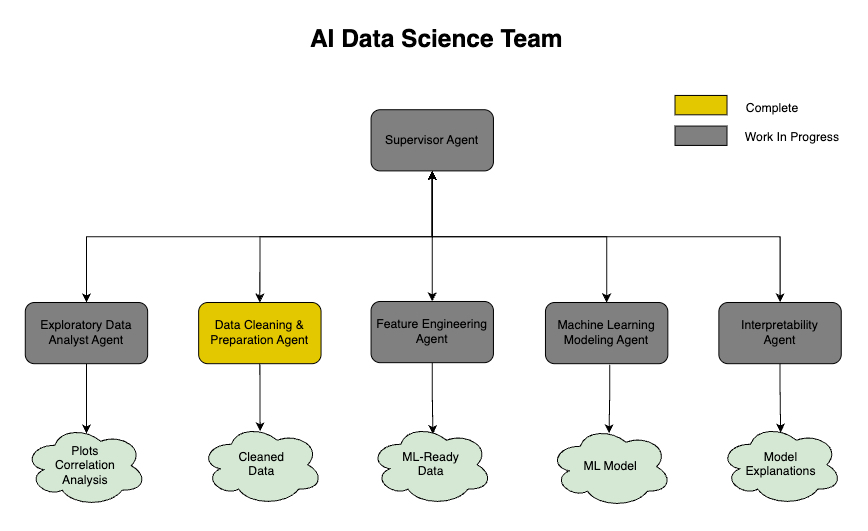
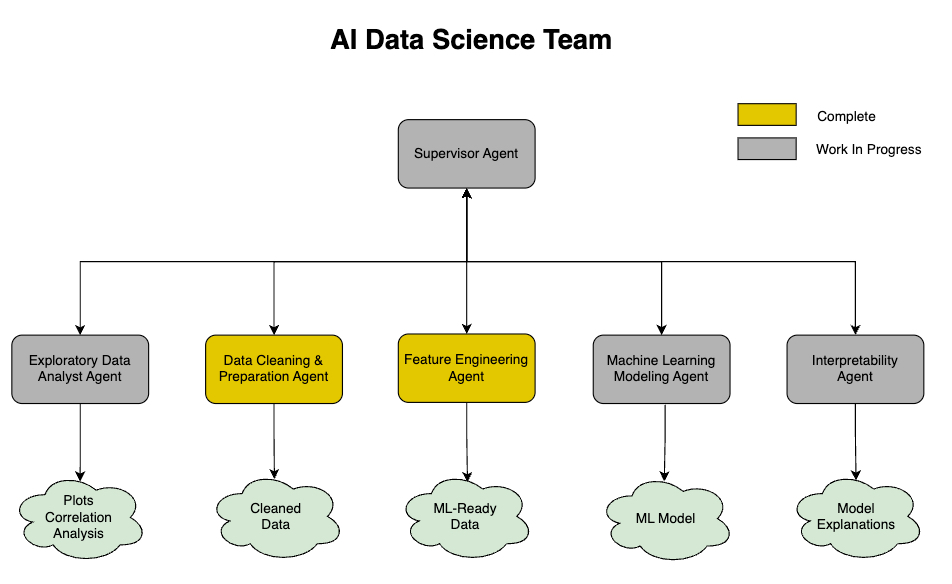
update readme

diff --git a/README.md b/README.md
@@ -26,14 +26,14 @@ This project is a work in progress. New agents will be released soon.
 ### Agents Available Now
 
 1. **Data Cleaning Agent:** Performs Data Preparation steps including handling missing values, outliers, and data type conversions.
+2. **Feature Engineering Agent:** Converts the prepared data into ML-ready data. Adds features to increase predictive accuracy of ML models.
 
 ### Agents Coming Soon
 
 1. **Supervisor:** Forms task list. Moderates sub-agents. Returns completed assignment. 
-2. **Exploratory Data Analyst:** Analyzes data structure, creates exploratory visualizations, and performs correlation analysis to identify relationships. 
-3. **Feature Engineering Agent:** Converts the prepared data into ML-ready data. Adds features to increase predictive accuracy of ML models. 
-4. **Machine Learning Agent:** Builds and logs the machine learning models.
-5. **Interpretability Agent:** Performs Interpretable ML to explain why the model returned predictions including which features were the most important to the model.
+2. **Exploratory Data Analyst:** Analyzes data structure, creates exploratory visualizations, and performs correlation analysis to identify relationships.
+3. **Machine Learning Agent:** Builds and logs the machine learning models.
+4. **Interpretability Agent:** Performs Interpretable ML to explain why the model returned predictions including which features were the most important to the model.
 
 ## Disclaimer
 
